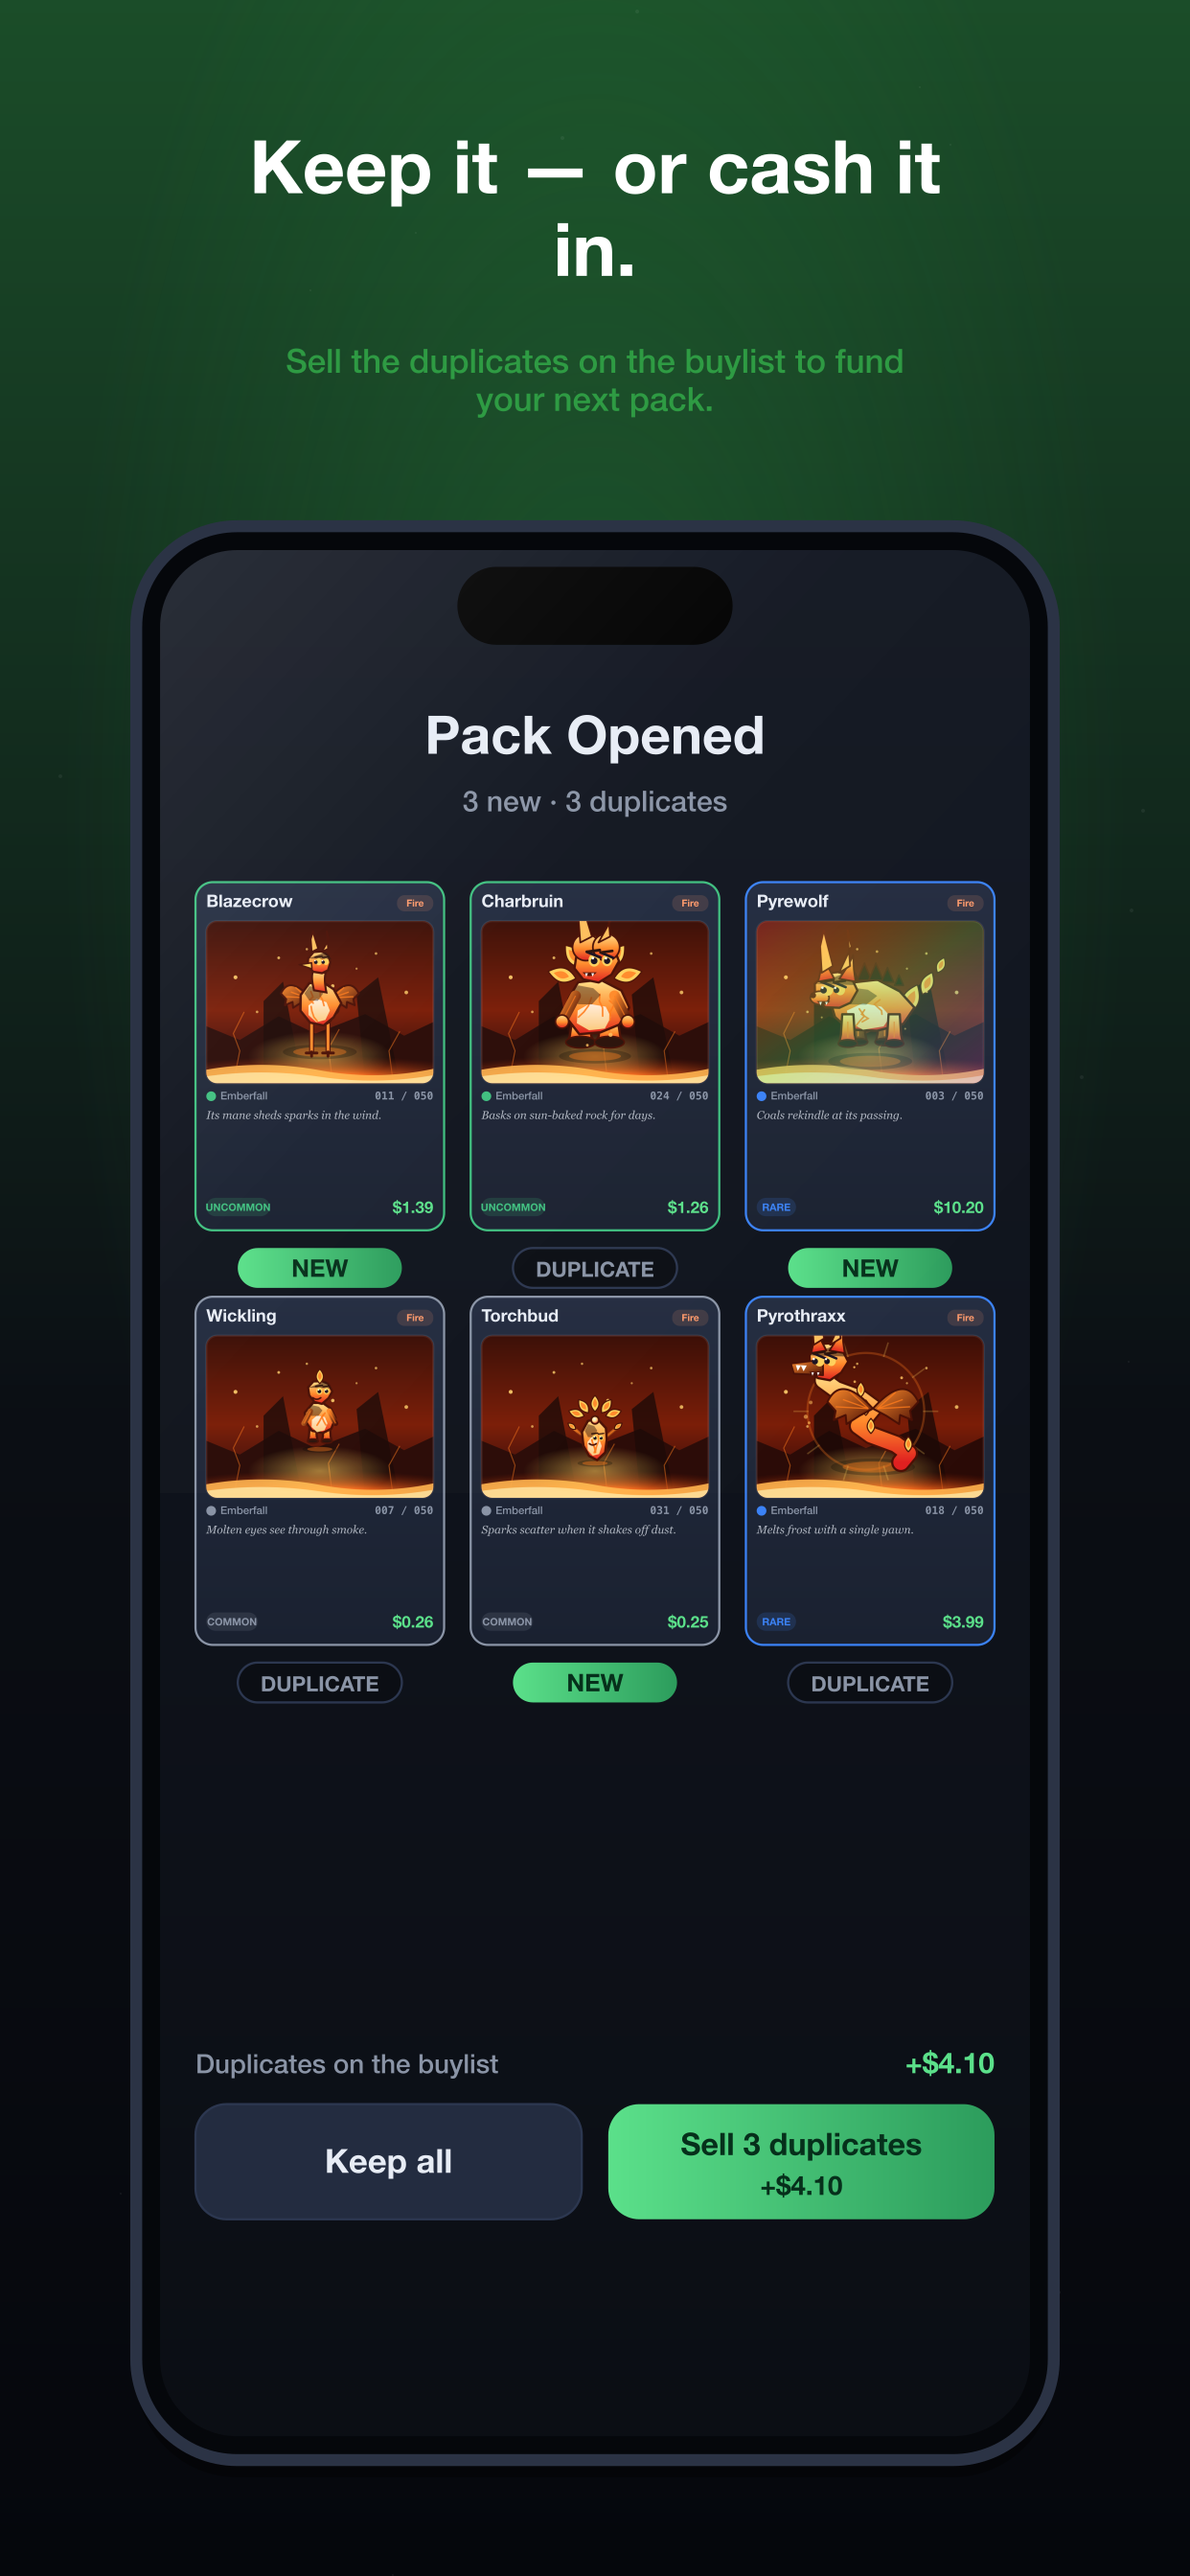
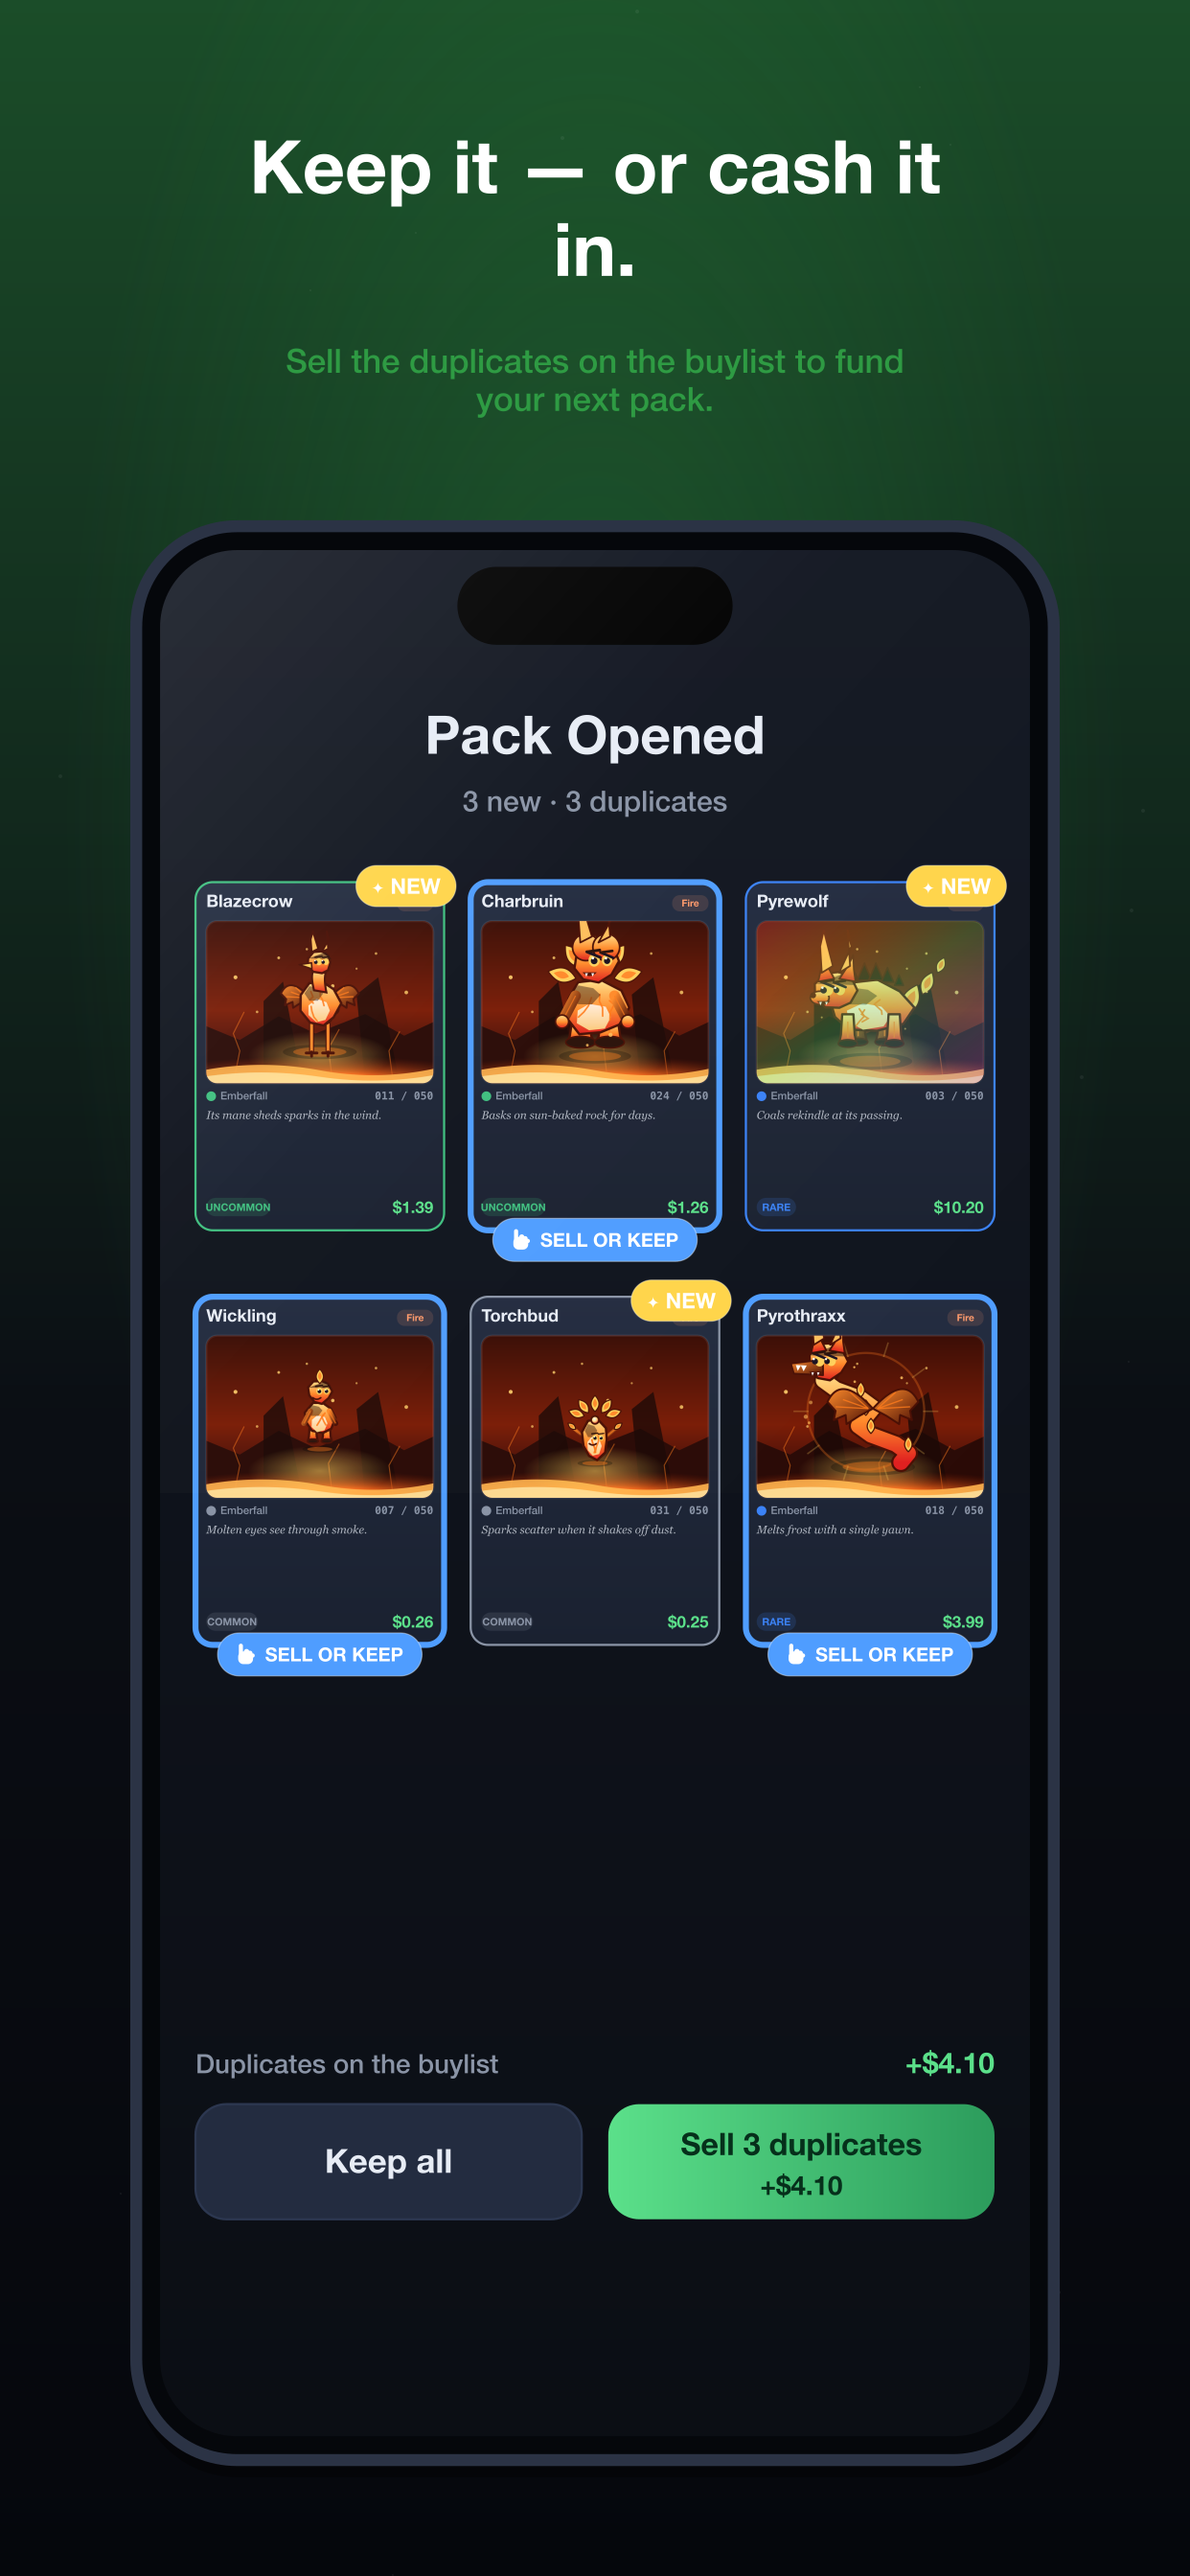
Match the pack-summary screenshot to the app's own badges
The marketing mock drew its own badging — a green "NEW" pill and a grey
"DUPLICATE" pill, both parked under the card — which is not what the app
shows. `PackCardSlot` pins a gold "NEW" flag to the corner of a fresh
pull, and marks each undecided duplicate with a blue tap ring and a
"SELL OR KEEP" chip, because a duplicate is the only card on that screen
that still needs the player to do something. The mock's grey "DUPLICATE"
label stated a fact and offered no affordance, so the screenshot sold the
screen short and misrepresented it.

Redraw the summary off the app's own values: gold #ffd54a flag at the
top-trailing corner, blue #4f9dff ring and tap chip on duplicates, and a
hand-tap glyph standing in for hand.tap.fill. Chrome scales off the 104pt
phone card exactly as the app does, so the badges stay in proportion at
both the iPhone and iPad export sizes.

diff --git a/tools/generate_screenshots.py b/tools/generate_screenshots.py
@@ -39,6 +39,8 @@ BG0, BG1 = "#0b0e14", "#121722"
 PANEL, PANEL_HI = "#1a2130", "#232c40"
 STROKE = "#2c3750"
 TEXT, SUBTLE, MONEY = "#e7ecf5", "#8a94a6", "#5be08a"
+# Pack-summary badging: the gold "NEW" flag (RevealView) and the blue tap cue.
+NEW_FLAG, TAP_CUE = "#ffd54a", "#4f9dff"
 
 ELEMENT = {
     "fire":     ["#ffd15c", "#ff7a1a", "#e01f1f", "#5c1004"],
@@ -697,8 +699,60 @@ def screen_pack_sealed(defs):
     return "".join(out)
 
 
+def tap_glyph(cx, cy, size, fill):
+    """A simplified `hand.tap.fill`: folded hand with the index finger extended.
+
+    Drawn in a 10x10 design box and scaled, so it stays legible at the ~9pt the
+    chip renders it at.
+    """
+    u = size / 10.0
+    out = []
+    # folded fingers first, so the palm covers where they'd meet it
+    for kx, ky, kr in ((0.7, -1.3, 1.25), (2.3, -0.6, 1.15), (3.5, 0.5, 1.0)):
+        out.append(circle(cx + kx * u, cy + ky * u, kr * u, fill=fill))
+    # extended index finger
+    out.append(rrect(cx - 2.9 * u, cy - 5.0 * u, 1.9 * u, 5.4 * u, 0.95 * u, fill=fill))
+    # palm
+    out.append(rrect(cx - 3.2 * u, cy - 1.4 * u, 6.9 * u, 5.9 * u, 2.4 * u, fill=fill))
+    return "".join(out)
+
+
+def new_flag(right, top, s):
+    """The gold "NEW" flag the app pins to the corner of a fresh pull."""
+    label, fs = "\u2726 NEW", 9 * s
+    w, h = len(label) * fs * 0.62 + 14 * s, fs * 1.25 + 6 * s
+    x, y = right + 5 * s - w, top - 7 * s
+    return "".join([
+        rrect(x, y, w, h, h / 2, fill=NEW_FLAG),
+        rrect(x, y, w, h, h / 2, stroke="#ffffff", sw=0.5, opacity=0.35),
+        text(x + w / 2, y + h / 2 + fs * 0.36, label, fs, "#ffffff",
+             weight=900, anchor="middle"),
+    ])
+
+
+def sell_or_keep_chip(cx, cy, s):
+    """The blue "SELL OR KEEP" tap chip that hangs off a pending duplicate."""
+    label, fs = "SELL OR KEEP", 8 * s
+    gw, gap, pad = 9 * s, 3 * s, 7 * s
+    tw = len(label) * fs * 0.62
+    w, h = pad * 2 + gw + gap + tw, fs * 1.25 + 8 * s
+    x = cx - w / 2
+    return "".join([
+        rrect(x, cy - h / 2, w, h, h / 2, fill=TAP_CUE),
+        rrect(x, cy - h / 2, w, h, h / 2, stroke="#ffffff", sw=0.5, opacity=0.4),
+        tap_glyph(x + pad + gw / 2, cy, gw, "#ffffff"),
+        text(x + pad + gw + gap + tw / 2, cy + fs * 0.36, label, fs, "#ffffff",
+             weight=900, anchor="middle"),
+    ])
+
+
 def screen_pack_summary(defs):
-    """The post-pack summary: some new, some duplicates, keep-or-sell in reach."""
+    """The post-pack summary: some new, some duplicates, keep-or-sell in reach.
+
+    Badging mirrors the app's own `PackCardSlot` (RevealView.swift): a gold
+    "NEW" flag pinned to the corner of a fresh pull, and a blue tap ring plus
+    "SELL OR KEEP" chip on every duplicate still waiting on a decision.
+    """
     out = [rrect(0, 0, SCREEN_W, SCREEN_H, 0,
                  grad=defs.linear([("0%", BG1, "1"), ("100%", BG0, "1")]))]
     m = 16
@@ -709,22 +763,22 @@ def screen_pack_summary(defs):
     gap = 12
     col_w = (SCREEN_W - 2 * m - 2 * gap) / 3
     y0 = 150
+    card_h = col_w * 1.4
+    # Chrome scales with the card, exactly as the app scales off its 104pt phone card.
+    s = min(1.7, max(1.0, col_w / 104))
     pulls = [("S1-011", True), ("S1-024", False), ("S1-003", True),
              ("S1-007", False), ("S1-031", True), ("S1-018", False)]
     for idx, (cid, is_new) in enumerate(pulls):
         row, col = divmod(idx, 3)
         x = m + (col_w + gap) * col
-        yy = y0 + (col_w * 1.4 + 30) * row
+        yy = y0 + (card_h + 30) * row
         out.append(full_card(defs, x, yy, col_w, cid, foil=(cid == "S1-003")))
-        chip_w = col_w * 0.66
-        ty = yy + col_w * 1.4 + 8
         if is_new:
-            g = defs.linear([("0%", "#5be08a", "1"), ("100%", "#2c9c5c", "1")], x1=0, y1=0, x2=1, y2=0)
-            out.append(rrect(x + (col_w - chip_w) / 2, ty, chip_w, 18, 9, grad=g))
-            out.append(text(x + col_w / 2, ty + 13, "NEW", 11, "#06301b", weight=900, anchor="middle"))
+            out.append(new_flag(x + col_w, yy, s))
         else:
-            out.append(rrect(x + (col_w - chip_w) / 2, ty, chip_w, 18, 9, fill=BG0, stroke=STROKE, sw=1))
-            out.append(text(x + col_w / 2, ty + 13, "DUPLICATE", 9.5, SUBTLE, weight=800, anchor="middle"))
+            out.append(rrect(x, yy, col_w, card_h, 16 * (col_w / 230),
+                             stroke=TAP_CUE, sw=2.5 * s))
+            out.append(sell_or_keep_chip(x + col_w / 2, yy + card_h + 4 * s, s))
 
     # keep-or-sell action bar
     by = 702
